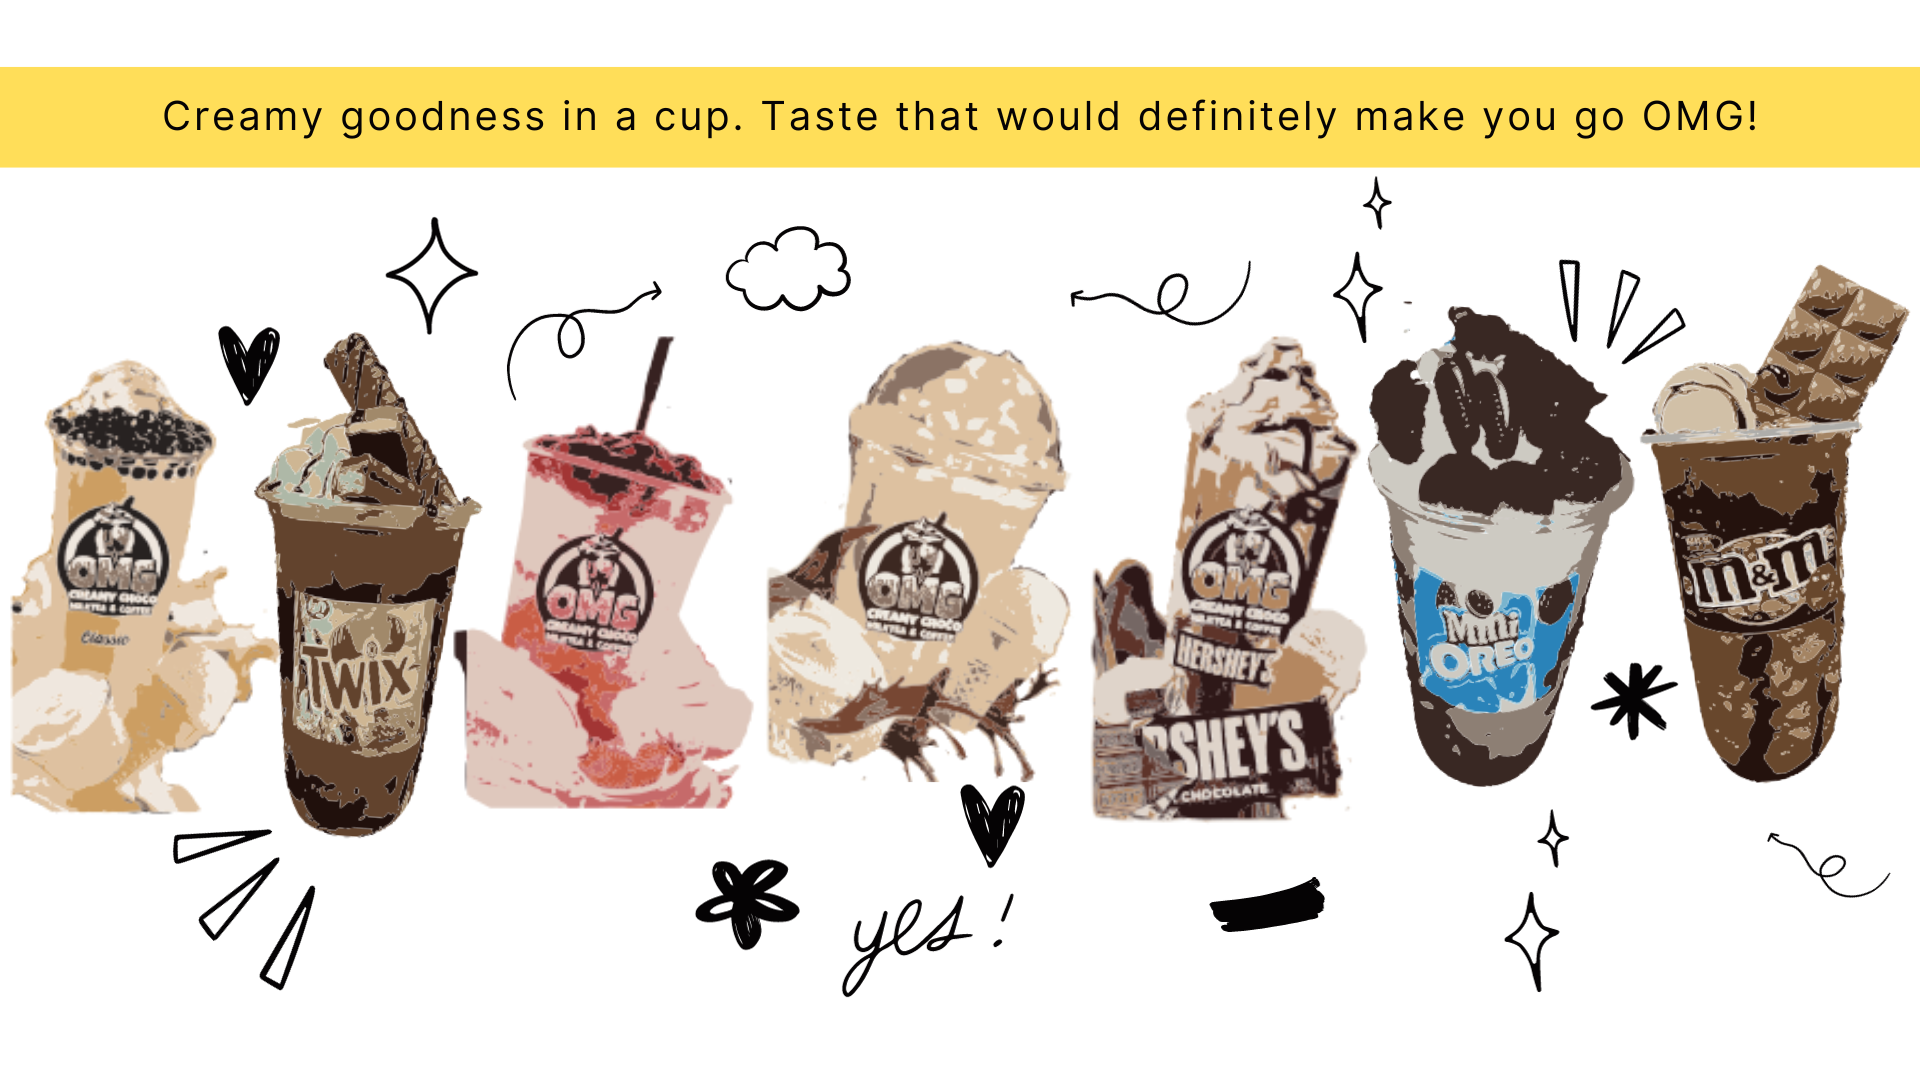
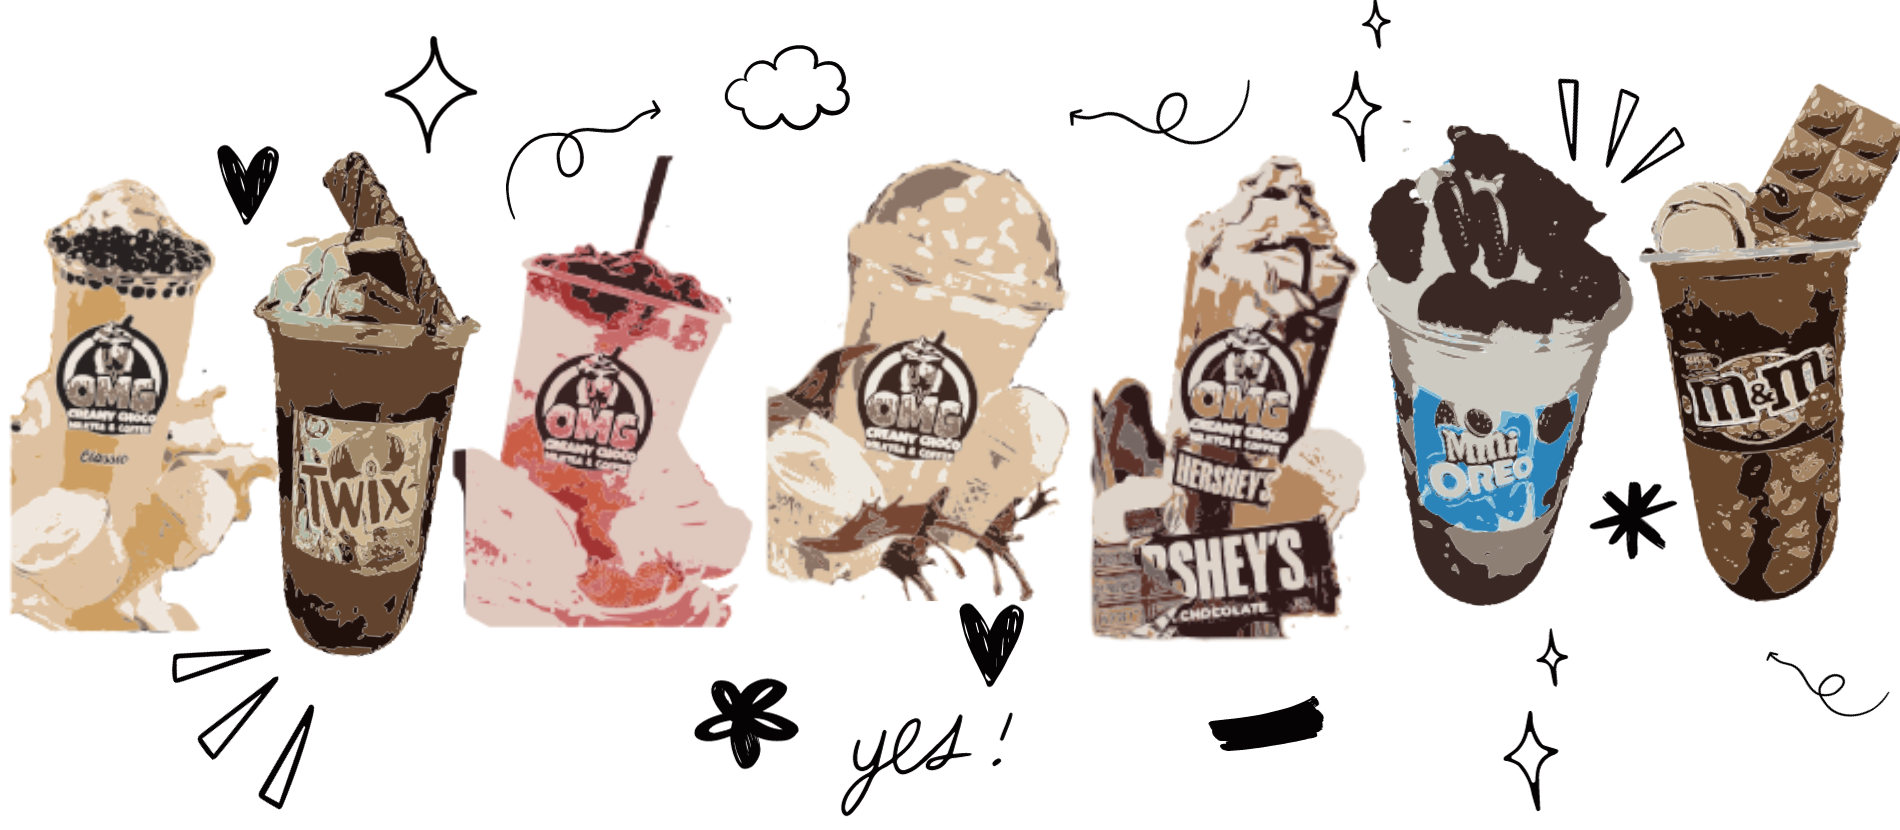
Home - first part
Done first part

diff --git a/css/style2.css b/css/style2.css
@@ -17,8 +17,18 @@
 }
 
 .background-image {
-   width: 50%;
-   height: 50%;
+   position: relative;
+   left: 60px;
+   width: 90%; 
+   height: 90%;
+}
+
+.Tagline h3 {
+   color: white;
+   font-size: 30px;
+   font-family: 'Lucida Sans', 'Lucida Sans Regular', 'Lucida Grande', 'Lucida Sans Unicode', Geneva, Verdana, sans-serif;
+   padding: 20px;
+   background-color: #FF8400;
 }
 
 .second ul  {
@@ -36,7 +46,6 @@
  .second li a{
    display: block;
    color: black;
-   
    text-decoration: none;
  }
  .second li a.active{
@@ -1089,20 +1098,8 @@ p {
    width: 50%;
 }
 
-.franchise .container .content1 h1 {
-   margin-top: 2rem;
-   font-size: 3rem;
-   text-shadow: 0px 4px 4px rgba(0, 0, 0, 0.25);
-   color: #FF8400;
-}
 
 
-.franchise .container .content1 p {
-   text-align: left;
-   font-size: 1.5rem;
-   font-family: 'Andada Pro', sans-serif;
-   width: 50%;
-}
 
 .franchise .container .content1 a {
    margin-top: 2rem;
@@ -1361,11 +1358,12 @@ section{
 }
 
 .header{
+   color: white;
    position: sticky;
    top:0; left:0; right:0;
    z-index: 1000;
    border-bottom: var(--border);
-   background-color: white;
+   background: white;
 }
 .flex{
    display: flex;

diff --git a/index.php b/index.php
@@ -63,7 +63,12 @@ include 'components/add_cart.php';
 <body>
 <?php include 'components/user_header.php'; ?>
 
-        <img src="images\category\background.png" alt="background-image">
+
+        <img class="background-image" src="images\category\background.png" >
+
+        <div class="Tagline">
+         <h3> Creamy goodness in a cup. Taste that would definitely make you go OMG!</h3>
+        </div>
 
         
 <section class="franchise" id="franchise">
@@ -72,9 +77,7 @@ include 'components/add_cart.php';
 
         <div class="content1">
         
-            <h1 class="headeropen">OPEN FOR FRANCHISE NATIONWIDE!</h1>
-            <h1>8 in 1 FRANCHISE</h1>
-            <p>With initial stocks and initial equipments, food panda application, creation of page, extensive training and initial marketing included</p>
+            <h1 class="headeropen">5 branches nationwide!</h1>
             <br><a href="franchise.php" class="button11">Franchise Now!</a>
        
         </div>
@@ -96,52 +99,6 @@ include 'components/add_cart.php';
 
 <section class="hero">
 
-<!-- Contact us starts here -->
-
-<!-- <form action="" method="post" enctype="multipart/form-data">
-
-    <div class="container">
-        <div class="contact-parent">
-        
-        <div class="contact-child child2">
-            <div class="inside-contact">
-                <h2>Contact Us</h2>
-                <h3>
-                    <span id="confirm">
-                </h3>
-                <p>Name *</p>
-                <input id="txt_name" type="text" Required="required" name="name">
-                <p>Email *</p>
-                <input id="txt_email" type="text" Required="required" name="email">
-                <p>Phone *</p>
-                <input id="txt_phone" type="text" Required="required" name="number">
-                <p>Subject *</p>
-                <input id="txt_subject" type="text" Required="required" name="subject">
-                <p>Message *</p>
-                <textarea id="txt_message" rows="4" cols="20" Required="required" name="msg" ></textarea>
-                <input type="submit" id="btn_send" value="SUBMIT" name="send">
-            </div>
-        </div>
-        <div class="contact-child child1">
-            <p>
-                <i class="fas fa-map-marker-alt"></i> Main Branch Address <br />
-                <span> JP Rizal St. Brgy I- Poblacion, Alaminos
-                <br />
-                Laguna (Plaza, Near Munisipyo Of Alaminos)
-                </span>
-            </p>
-            <p>
-                <i class="fas fa-phone-alt"></i> Contact us <br />
-                <span> 09171675592</span>
-            </p>
-            <p>
-                <i class=" far fa-envelope"></i> Email <br />
-                <span>omgfranchising@gmail.com</span>
-            </p>
-        </div>
-        </div>
-    </div>   
-</form> -->
 
 </section>
 
